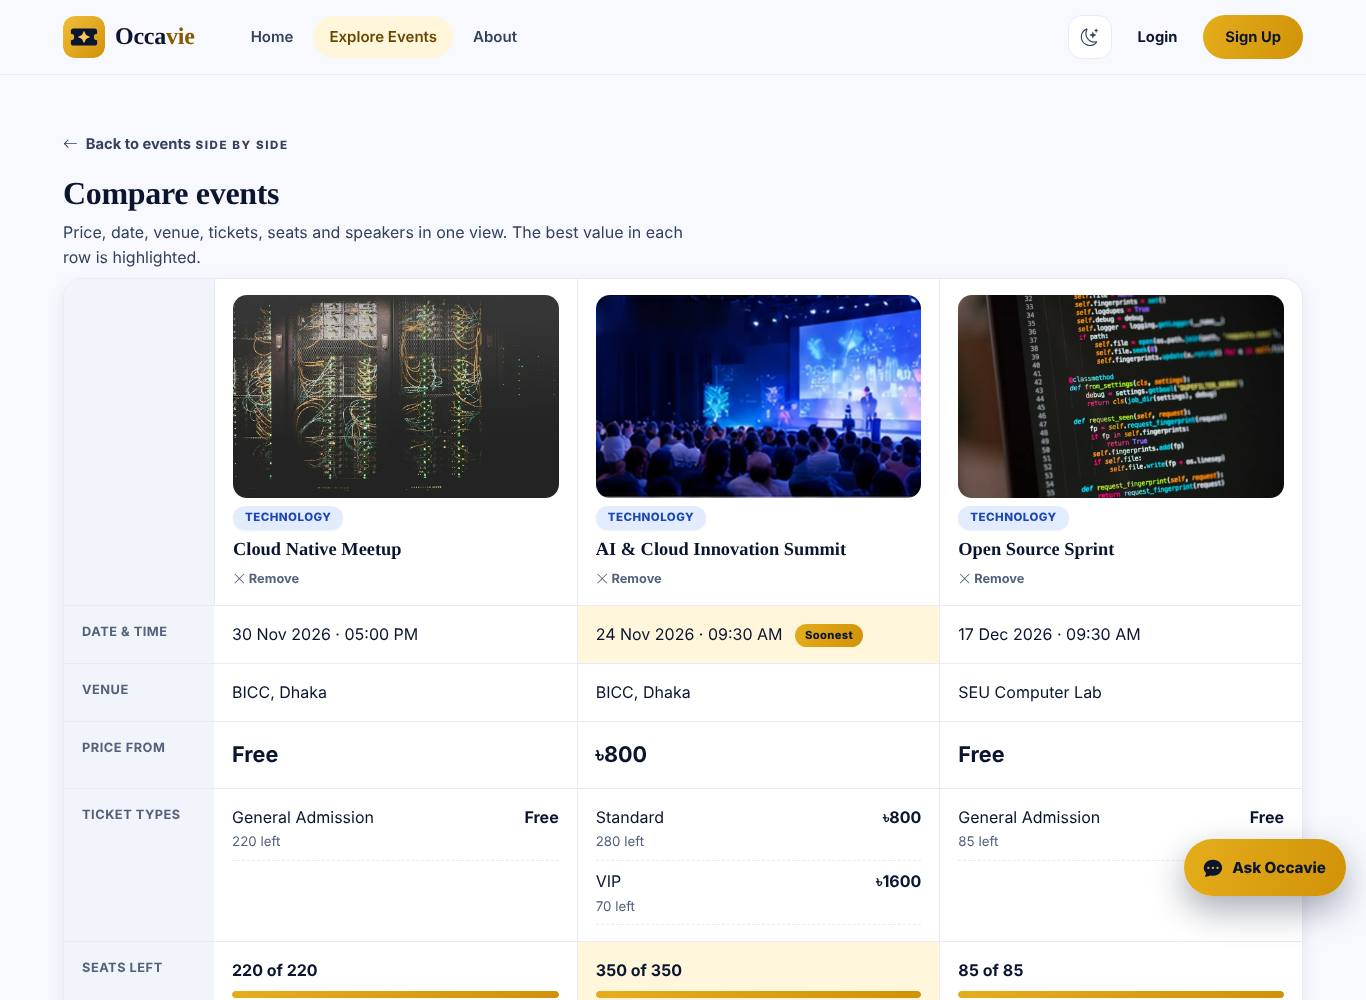
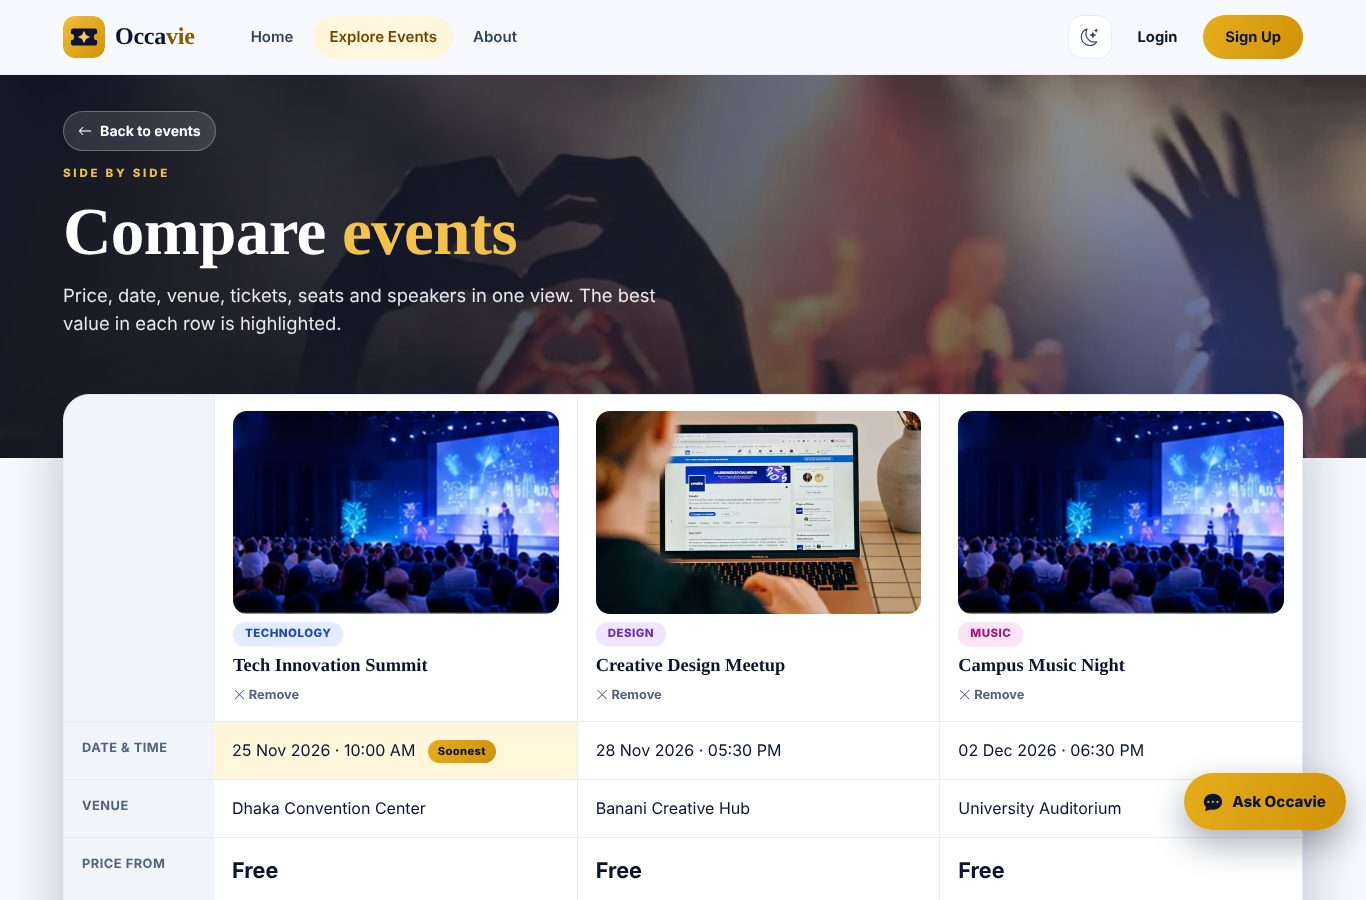
README: document every page redesign
Regroups the screenshots (public, account, smart features, booking, workspaces,
phone), adds a page-by-page tour, notes the shared design and reduced-motion
behaviour, adds a page-redesign row to the upgrade log and refreshes the compare
screenshot.

Claude-Session: https://claude.ai/code/session_0133mjV3fwqNK9PBtkP1vyh6

diff --git a/README.md b/README.md
@@ -10,55 +10,97 @@ Developed by **Md. Zubayer Ahmad Shibly**.
 
 ## Screenshots
 
-| Smart search | Compare events | Concierge assistant |
-|---|---|---|
-| ![Smart search](docs/screenshots/smart-search.jpg) | ![Compare](docs/screenshots/compare.jpg) | ![Concierge](docs/screenshots/concierge.jpg) |
+Every page shares one look: a navy-and-gold identity, serif headings, a slowly moving photo backdrop in the page banners, and light and dark themes. All screenshots come from a local run with sample data.
 
-| Recommendations with reasons | Organizer Copilot | Sign in |
-|---|---|---|
-| ![Recommendations](docs/screenshots/recommendations.jpg) | ![Copilot](docs/screenshots/organizer-copilot.jpg) | ![Login](docs/screenshots/login.jpg) |
+### Public pages
 
-| Explore | Event details | Admin (dark mode) |
-|---|---|---|
-| ![Explore](docs/screenshots/events-desktop.jpg) | ![Event details](docs/screenshots/event-details.jpg) | ![Admin dark](docs/screenshots/admin-dashboard-dark.jpg) |
-
-| Register | Forgot password |
+| Home | Explore |
 |---|---|
-| ![Register](docs/screenshots/register.jpg) | ![Forgot password](docs/screenshots/forgot-password.jpg) |
+| ![Home](docs/screenshots/home-desktop.jpg) | ![Explore](docs/screenshots/events-desktop.jpg) |
+
+| Event details | Compare |
+|---|---|
+| ![Event details](docs/screenshots/event-details.jpg) | ![Compare](docs/screenshots/compare.jpg) |
 
 | About | Contact |
 |---|---|
 | ![About](docs/screenshots/about.jpg) | ![Contact](docs/screenshots/contact.jpg) |
 
-| Participant dashboard | Organizer dashboard |
+| Organizer public page | Not found |
 |---|---|
-| ![Participant dashboard](docs/screenshots/participant-dashboard.jpg) | ![Organizer dashboard](docs/screenshots/organizer-dashboard.jpg) |
+| ![Organizer page](docs/screenshots/organizer-page.jpg) | ![Not found](docs/screenshots/not-found.jpg) |
 
-| Admin users | Event wizard |
-|---|---|
-| ![Admin users](docs/screenshots/admin-users.jpg) | ![Event wizard](docs/screenshots/event-wizard.jpg) |
+### Sign in and account
 
-| Event setup (tabs) | |
+| Sign in | Register |
 |---|---|
-| ![Event setup](docs/screenshots/event-program.jpg) | |
+| ![Login](docs/screenshots/login.jpg) | ![Register](docs/screenshots/register.jpg) |
 
-| Notifications | Profile |
+| Forgot password | Profile |
 |---|---|
-| ![Notifications](docs/screenshots/notifications.jpg) | ![Profile](docs/screenshots/profile.jpg) |
+| ![Forgot password](docs/screenshots/forgot-password.jpg) | ![Profile](docs/screenshots/profile.jpg) |
+
+| Notifications | |
+|---|---|
+| ![Notifications](docs/screenshots/notifications.jpg) | |
+
+### Smart features
+
+| Smart search | Concierge assistant |
+|---|---|
+| ![Smart search](docs/screenshots/smart-search.jpg) | ![Concierge](docs/screenshots/concierge.jpg) |
+
+| Recommendations with reasons | Organizer Copilot |
+|---|---|
+| ![Recommendations](docs/screenshots/recommendations.jpg) | ![Copilot](docs/screenshots/organizer-copilot.jpg) |
+
+### Booking
 
 | Checkout | Payment result |
 |---|---|
 | ![Checkout](docs/screenshots/checkout.jpg) | ![Payment result](docs/screenshots/payment-result.jpg) |
 
-| Organizer public page | Not found |
-|---|---|
-| ![Organizer page](docs/screenshots/organizer-page.jpg) | ![Not found](docs/screenshots/not-found.jpg) |
+### Workspaces
 
-| Mobile | Mobile, dark mode |
+| Participant dashboard | Organizer dashboard |
+|---|---|
+| ![Participant dashboard](docs/screenshots/participant-dashboard.jpg) | ![Organizer dashboard](docs/screenshots/organizer-dashboard.jpg) |
+
+| Admin dashboard (dark mode) | Admin users |
+|---|---|
+| ![Admin dark](docs/screenshots/admin-dashboard-dark.jpg) | ![Admin users](docs/screenshots/admin-users.jpg) |
+
+| Event wizard | Event setup (tabs) |
+|---|---|
+| ![Event wizard](docs/screenshots/event-wizard.jpg) | ![Event setup](docs/screenshots/event-program.jpg) |
+
+### On a phone
+
+| Home | Event details, dark mode |
 |---|---|
 | ![Mobile home](docs/screenshots/home-mobile.jpg) | ![Mobile event](docs/screenshots/event-details-mobile-dark.jpg) |
 
-> Screenshots come from a local run with sample data.
+## Page tour
+
+| Page | What it offers |
+|---|---|
+| **Home** | Moving-photo hero with the smart search box, popular-search chips and live stats; category tiles; upcoming events; a three-step "how it works"; the smart helpers; a closing call to action |
+| **Explore** | Smart search card over a photo hero, full filters (search, place, category, price, status, dates, sort), category pills, event cards with Compare and Save |
+| **Event details** | Full-width hero from the event's own photo with title, status and glass chips for date, place, seats left and price; actions (save, calendar, compare, share); venue and map; programme, speakers, gallery and sponsors; ticket panel with a mobile booking bar |
+| **Compare** | Two or three events side by side with the best value in each row highlighted |
+| **About** | Story, the three workspaces, the five smart helpers, principles, developer card and call to action |
+| **Contact** | Support form beside direct channels (WhatsApp, Facebook, LinkedIn, email, address) and a quick-answers FAQ |
+| **Organizer page** | Public profile with bio, links and counts, upcoming events and history |
+| **Sign in / Register** | Moving-photo backdrop; register uses two cards ("Join events" or "Host events"); password strength guide |
+| **Forgot / reset password** | Dedicated pages with a three-step guide, a "check your inbox" confirmation and an expired-link state |
+| **Checkout** | Three-step progress, payment-method and promo steps, and a sticky order summary |
+| **Payment result** | Ticket-style confirmation with reference and PDF ticket and receipt downloads, or a calm not-confirmed state |
+| **Dashboards** | Banner with a time-of-day greeting, colour-coded stat tiles, recommendations (participant), analytics and Copilot attention list (organizer), platform analytics (admin) |
+| **Workspace pages** | Every Organizer, Admin and Participant page opens with the photo banner; tables, cards, badges and forms share one polished style |
+| **Event setup** | Sticky tabs for tickets, schedule, speakers, gallery and sponsors, with counts |
+| **Notifications** | Colour-coded card per message type, unread highlight, filters and "mark all read" |
+| **Profile** | Cover with avatar, public organizer profile, switch-style email preferences and password change |
+| **Errors and offline** | 404, 500 and 403 pages and the offline fallback share the same look and offer ways forward |
 
 ## What the website can do
 
@@ -117,7 +159,8 @@ How they stay honest: recommendations never suggest booked, saved, sold-out, pas
 
 ### Look and feel
 
-* Navy-and-gold identity with serif headings, an original logo, photo-led pages, light and dark themes.
+* Navy-and-gold identity with serif headings, an original logo, photo-led pages with a slowly moving photo backdrop (it stands still for people who prefer reduced motion), light and dark themes.
+* One consistent design across every public page, the sign-in flow, checkout and all three workspaces (see the page tour above).
 * Responsive layouts (checked at phone, tablet, laptop and large-desktop widths), skip links, keyboard-friendly dialogs, custom 404 and error pages, optional installable PWA shell that only caches static assets.
 
 ### Platform
@@ -143,6 +186,7 @@ How they stay honest: recommendations never suggest booked, saved, sold-out, pas
 | Demo data | Sample events on an empty database; a daily job keeps at least 24 upcoming events inside the next 90 days with shuffled dates |
 | Performance | Event page queries run in parallel; Save updates instantly without reloading |
 | Fixes | "Invalid payment reference" after paying (the reference prefix check), stale cached CSS, wrong contact details |
+| Page redesigns | Home, Explore, Event details, Compare, About, Contact, Organizer page, Sign in, Register, Forgot and reset password, Checkout, Payment result, all dashboards and workspace pages, Event setup tabs, Notifications, Profile, error pages and the offline page, each checked with axe at phone and desktop sizes in light and dark mode |
 | Smart features | Smart search, Compare events, Recommendations with reasons (💡), Organizer Copilot, Occavie Concierge |
 
 ## Stack
